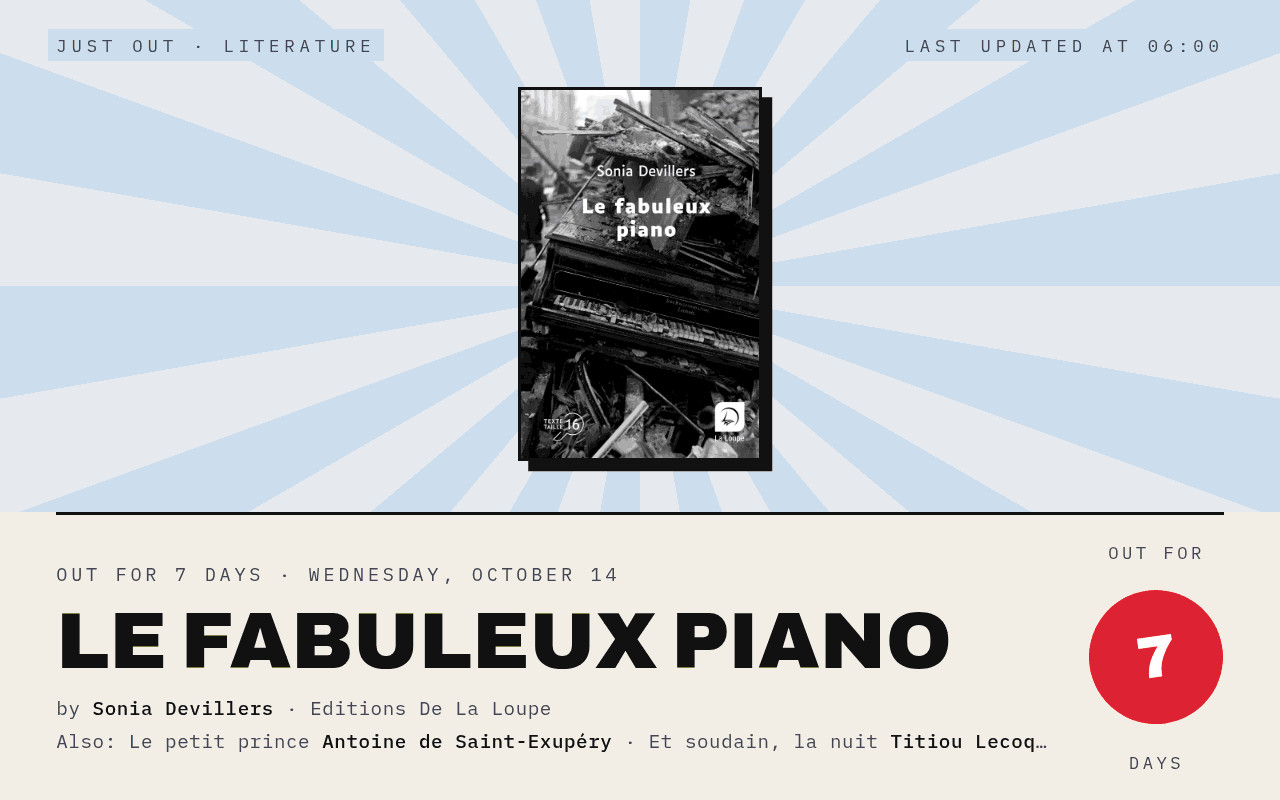
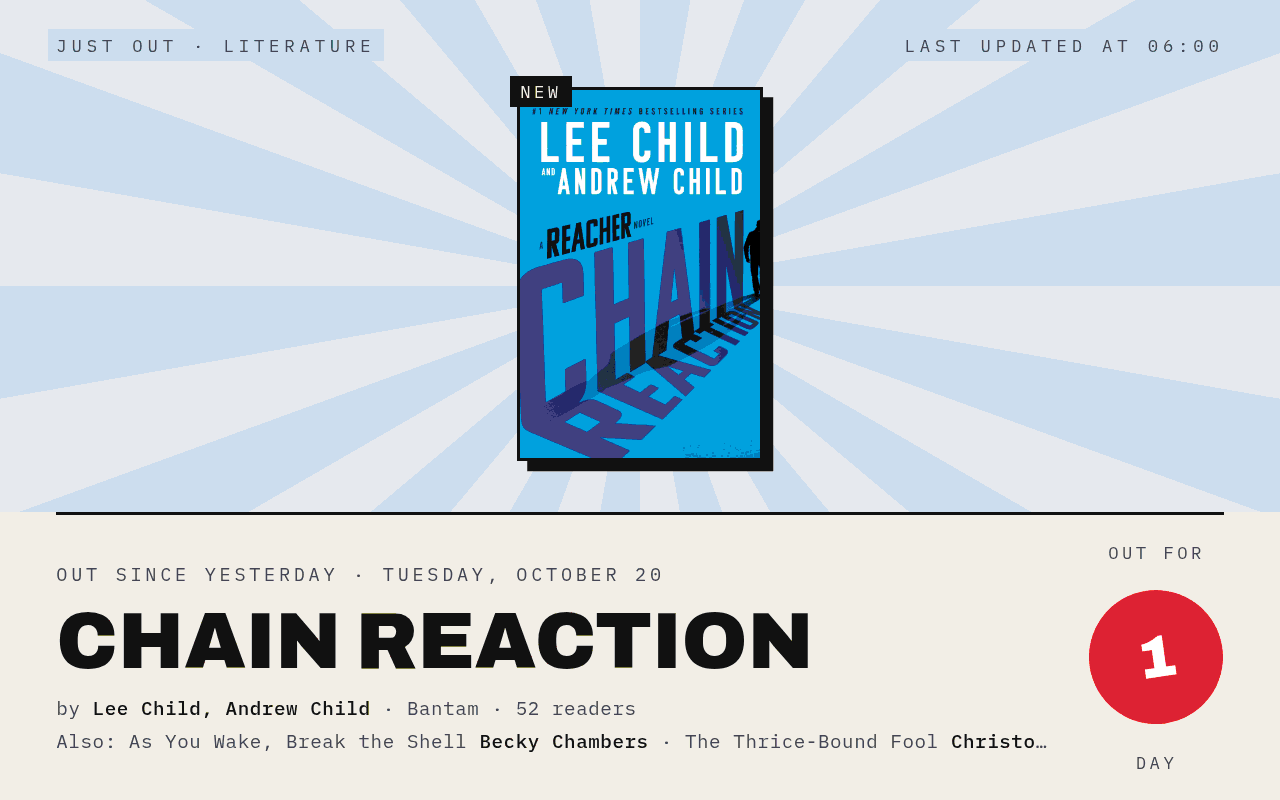
En anglais, les parutions viennent de Hardcover
La langue choisit aussi la source : Place des Libraires pour les livres
français, Hardcover (avec une clé d'API) pour les livres anglophones.
Le plugin passe en POST, accepté aussi par Place des Libraires.

diff --git a/recipe_test.php b/recipe_test.php
@@ -19,6 +19,8 @@ echo "url=", count($urls()), " urls for 6 genres\n";
 // à paraître d'ici six semaines, parus ces deux dernières semaines
 $both = json_decode(file_get_contents('/tmp/test_payload.json'), true);
 $feed = array_slice($both, 0, 2);
+// Réponse Hardcover (littérature, en anglais) figée le 21 octobre 2026 ; une seule URL, donc pas de clé IDX_
+$en = json_decode(file_get_contents('/tmp/test_payload_en.json'), true);
 echo 'payload bytes: ', strlen(json_encode($both)), ' / limit ', Plugin::maxDataPayloadBytesForWire() ?? 'none', "\n";
 // le livre à paraître le plus attendu, sans couverture
 $noimg = $feed; preg_match('#/livre/(\d{13})-#', $feed['IDX_0']['data'], $m);
@@ -30,13 +32,13 @@ $slot = fn($k) => (int) collect(range(0, 23))->first(fn($h) => intdiv(Carbon::cr
 $cases = [
   // nom, taille, modèle, style, langue, affiche, données, heure (UTC), genre
   ['fr_color_hot', 'full', 55, 'color', 'fr', 'hot', $feed, 10],
-  ['en_eink_hot', 'full', 1, 'eink', 'en', 'hot', $feed, 10],
+  ['en_eink_hot', 'full', 1, 'eink', 'en', 'hot', $en, 10],
   ['fr_color_now', 'full', 55, 'color', 'fr', 'now', $feed, 10],
   ['fr_eink_now', 'full', 1, 'eink', 'fr', 'now', $feed, 10],
   ['fr_color_upcoming', 'full', 55, 'color', 'fr', 'upcoming', $feed, 10],
   ['fr_x_upcoming', 'full', 14, 'eink', 'fr', 'upcoming', $feed, 10],
   ['fr_color_rotate_hot2', 'full', 55, 'color', 'fr', 'rotate', $feed, $slot(3)],
-  ['en_color_rotate_now3', 'full', 55, 'color', 'en', 'rotate', $feed, $slot(7)],
+  ['en_color_rotate_now3', 'full', 55, 'color', 'en', 'rotate', $en, $slot(7)],
   ['fr_color_multi_hot2', 'full', 55, 'color', 'fr', 'rotate', $both, $slot(3), ['1000000', '90000000']],
   ['fr_eink_multi_upcoming', 'full', 1, 'eink', 'fr', 'upcoming', $both, 10, ['1000000', '90000000']],
   ['fr_q_multi3', 'quadrant', 1, 'eink', 'fr', 'now', $both + ['IDX_4' => ['error' => 'Failed to fetch data']], 10, ['1000000', '90000000', '91000000']],
@@ -44,16 +46,19 @@ $cases = [
   ['fr_hh', 'half_horizontal', 1, 'eink', 'fr', 'hot', $feed, 10],
   ['fr_hv', 'half_vertical', 1, 'eink', 'fr', 'now', $feed, 10],
   ['fr_q', 'quadrant', 1, 'eink', 'fr', 'upcoming', $feed, 10],
-  ['en_q', 'quadrant', 1, 'eink', 'en', 'hot', $feed, 10],
-  ['en_hh', 'half_horizontal', 1, 'eink', 'en', 'upcoming', $feed, 10],
+  ['en_q', 'quadrant', 1, 'eink', 'en', 'hot', $en, 10],
+  ['en_hh', 'half_horizontal', 1, 'eink', 'en', 'upcoming', $en, 10],
   ['fr_error', 'full', 1, 'eink', 'fr', 'rotate', $down, 10],
   ['fr_empty', 'full', 55, 'color', 'fr', 'rotate', $empty, 10, ['90000000']],
+  ['en_color_upcoming', 'full', 55, 'color', 'en', 'upcoming', $en, 10],
+  ['en_error', 'full', 1, 'eink', 'en', 'rotate', ['error' => 'Failed to fetch data'], 10],
+  ['en_nokey', 'full', 1, 'eink', 'en', 'rotate', ['error' => 'Failed to fetch data'], 10, null, ''],
 ];
 @mkdir('/tmp/bpr'); array_map('unlink', glob('/tmp/bpr/*.png'));
 foreach ($cases as $c) {
   [$name, $size, $mid, $style, $lang, $feat, $payload, $h] = $c;
   Carbon::setTestNow(Carbon::create(2026, 10, 21, $h, 0, 0, 'UTC'));
-  $p->configuration = ['genre' => $c[8] ?? ['1000000'], 'pocket' => 'no', 'style' => $style, 'language' => $lang, 'featured' => $feat];
+  $p->configuration = ['genre' => $c[8] ?? ['1000000'], 'hardcover_token' => $c[9] ?? 'test', 'pocket' => 'no', 'style' => $style, 'language' => $lang, 'featured' => $feat];
   $p->data_payload = $payload; $p->saveQuietly();
   $model = DeviceModel::find($mid);
   $dev = new Device(['name' => 'test']); $dev->setRelation('deviceModel', $model);
@@ -65,7 +70,13 @@ foreach ($cases as $c) {
   echo "$name ok\n";
 }
 Carbon::setTestNow();
-// listes réelles, sur demande
+// listes réelles, sur demande ; Hardcover avec le jeton passé dans HC_TOKEN
+if (getenv('HC_TOKEN')) {
+  $p->configuration = ['genre' => ['90000000', '91000000'], 'hardcover_token' => getenv('HC_TOKEN'), 'pocket' => 'no', 'language' => 'en', 'featured' => 'rotate', 'style' => 'color'];
+  $p->saveQuietly(); $p->updateDataPayload();
+  $live = $p->fresh()->data_payload;
+  echo 'live payload en: ', isset($live['data']) ? count($live['data']['coming']) . ' coming, ' . count($live['data']['recent']) . ' recent, first ' . ($live['data']['coming'][0]['title'] ?? '') : json_encode($live), "\n";
+}
 if (getenv('LIVE')) {
   // quatre rayons : la plus grosse charge possible, qui doit rester sous la limite de LaraPaper
   $p->configuration = ['genre' => ['1000000', '90000000', '91000000', '3000000-3040000'], 'pocket' => 'no', 'language' => 'fr', 'featured' => 'rotate', 'style' => 'color'];

diff --git a/update.php b/update.php
@@ -4,7 +4,7 @@ use App\Models\Plugin;
 $src = Plugin::where('name', 'BookPoster (test)')->firstOrFail();
 $dst = Plugin::where('name', 'BookPoster')->firstOrFail();
 $dst->fill($src->only(['render_markup', 'render_markup_shared', 'render_markup_half_horizontal', 'render_markup_half_vertical',
-  'render_markup_quadrant', 'polling_url', 'polling_verb', 'polling_header', 'configuration_template', 'no_bleed', 'markup_language']));
+  'render_markup_quadrant', 'polling_url', 'polling_verb', 'polling_header', 'polling_body', 'configuration_template', 'no_bleed', 'markup_language']));
 $dst->save();
 $src->delete();
 echo "updated {$dst->id}\n";

diff --git a/README.md b/README.md
@@ -10,9 +10,12 @@
 
 *Ce qui paraît en librairie, façon affiche.*
 
-Un plugin TRMNL qui met un livre à l'affiche : les livres les plus attendus, ceux qui viennent de paraître ou les prochaines parutions en France, avec sa couverture, son auteur, son éditeur et un compte à rebours avant sa sortie. Il fait partie de la suite Poster avec [FlightPoster](https://github.com/BartoX360/FlightPoster), [WeatherPoster](https://github.com/BartoX360/WeatherPoster), [GamePoster](https://github.com/BartoX360/GamePoster), [MoviePoster](https://github.com/BartoX360/MoviePoster) et [ShowPoster](https://github.com/BartoX360/ShowPoster), dont il reprend le style.
+Un plugin TRMNL qui met un livre à l'affiche : les livres les plus attendus, ceux qui viennent de paraître ou les prochaines parutions, avec sa couverture, son auteur, son éditeur et un compte à rebours avant sa sortie. Il fait partie de la suite Poster avec [FlightPoster](https://github.com/BartoX360/FlightPoster), [WeatherPoster](https://github.com/BartoX360/WeatherPoster), [GamePoster](https://github.com/BartoX360/GamePoster), [MoviePoster](https://github.com/BartoX360/MoviePoster) et [ShowPoster](https://github.com/BartoX360/ShowPoster), dont il reprend le style.
 
-Aucun serveur ni clé à installer : les listes et les couvertures viennent de [Place des Libraires](https://www.placedeslibraires.fr), le site des librairies indépendantes.
+Les sorties ne sont pas les mêmes des deux côtés de la Manche : la langue choisit aussi la source.
+
+- **En français** : les parutions françaises de [Place des Libraires](https://www.placedeslibraires.fr), le site des librairies indépendantes. Aucune clé à fournir.
+- **En anglais** : les parutions anglophones de [Hardcover](https://hardcover.app), avec votre propre clé d'API gratuite, et le nombre de lecteurs qui suivent chaque livre.
 
 ### Fonctionnalités
 
@@ -23,7 +26,7 @@ Aucun serveur ni clé à installer : les listes et les couvertures viennent de [
 - **Tampon** : le nombre de jours avant la parution, ou depuis la parution
 - **Vos rayons** : jusqu'à quatre parmi littérature, romans, polar, fantasy & SF, romance, BD, mangas, jeunesse, sciences humaines, arts, vie pratique, ou tous les livres ; leurs listes sont mêlées rang par rang
 - **Nouveautés seulement** : les rééditions en poche sont écartées, sauf si vous les voulez (toujours gardées pour les mangas)
-- **Français ou anglais**
+- **Français ou anglais**, chacun avec ses propres parutions
 - Un livre sans couverture est illustré par un livre ouvert
 
 ### Captures
@@ -41,10 +44,12 @@ Aucun serveur ni clé à installer : les listes et les couvertures viennent de [
 
 ### Installation
 
+Pour les parutions anglophones, il faut d'abord une clé d'API Hardcover : sur [hardcover.app](https://hardcover.app), *Settings → Hardcover API → New API Key*.
+
 **LaraPaper / BYOS** : *Plugins → Import recipe*, choisissez `recipe/bookposter.zip` (créé par `recipe_render.sh`, ou zippez le contenu de `recipe/src/`), puis choisissez vos réglages.
 
 **TRMNL (usetrmnl.com)** : créez un *Private Plugin* avec la stratégie *Polling*, puis copiez :
-- `polling_url` et `polling_headers` de `recipe/src/settings.yml` dans *Polling URL* et *Polling headers* ;
+- `polling_url`, `polling_headers` et `polling_body` de `recipe/src/settings.yml` dans *Polling URL*, *Polling headers* et *Polling body* (verbe *POST*) ;
 - les `custom_fields` de `recipe/src/settings.yml` dans *Custom fields* (YAML) ;
 - `recipe/src/shared.liquid` dans *Shared markup*, et chaque `recipe/src/<format>.liquid` dans l'onglet correspondant.
 
@@ -54,15 +59,18 @@ Le dossier `recipe/src/` suit l'organisation de [trmnlp](https://github.com/uset
 
 | Champ | Rôle |
 |---|---|
-| Genres | Les rayons des livres à l'affiche, quatre au plus (Littérature si vide) |
-| Poches | Sans (par défaut) ou avec les rééditions en poche |
+| Clé d'API Hardcover | Seulement en anglais |
+| Genres | Les rayons des livres à l'affiche, quatre au plus (Littérature si vide) ; en anglais, ils sont traduits en genres Hardcover |
+| Poches | En français : sans (par défaut) ou avec les rééditions en poche |
 | Affiche | *Rotation* (chaque heure), ou toujours le livre le plus attendu, le plus demandé des juste parus ou la prochaine parution |
-| Langue | Français ou anglais |
+| Langue | Français (Place des Libraires) ou anglais (Hardcover) |
 | Style | E-ink (noir et blanc) ou Couleur |
 
 ### Fonctionnement
 
-Place des Libraires ne cherche que dans un rayon à la fois : l'URL de polling charge deux pages de recherche par rayon (à paraître d'ici six semaines, parus ces deux dernières semaines), triées par pertinence (les livres les plus demandés d'abord). Chaque page pèse environ 450 Ko, d'où la limite de quatre rayons, qui garde la charge sous les 5 Mo acceptés par LaraPaper. Le gabarit n'en garde que l'en-tête des seize premiers livres (titre, auteurs, éditeur, date, EAN) ; la couverture est chargée au moment du rendu d'après l'EAN.
+**En anglais**, le polling fait une requête GraphQL à Hardcover avec deux listes de vingt livres au plus dans les genres correspondants : à paraître d'ici six semaines et parus ces deux dernières semaines, triés par nombre de lecteurs qui les ont ajoutés. Soit deux requêtes par heure, pour 5 000 par jour en offre gratuite.
+
+**En français**, Place des Libraires ne cherche que dans un rayon à la fois : l'URL de polling charge deux pages de recherche par rayon (à paraître d'ici six semaines, parus ces deux dernières semaines), triées par pertinence (les livres les plus demandés d'abord). Chaque page pèse environ 450 Ko, d'où la limite de quatre rayons, qui garde la charge sous les 5 Mo acceptés par LaraPaper. Le gabarit n'en garde que l'en-tête des seize premiers livres (titre, auteurs, éditeur, date, EAN) ; la couverture est chargée au moment du rendu d'après l'EAN.
 
 - *Les plus attendus* : les plus demandés parmi ceux qui paraissent d'ici six semaines
 - *Juste parus* : parus ces deux dernières semaines, les plus demandés d'abord
@@ -72,9 +80,11 @@ Place des Libraires ne cherche que dans un rayon à la fois : l'URL de polling c
 
 | Fichier | Rôle |
 |---|---|
-| `recipe_render.sh <dossier>` | Zippe la recette, l'importe dans LaraPaper comme « BookPoster (test) », rend chaque cas de test et copie les PNG dans `<dossier>` ; avec `LIVE=1`, vérifie aussi les listes réelles et la taille de la charge pour quatre rayons |
-| `recipe_test.php` | Les cas de test (rubrique, rotation, plusieurs rayons, format, appareil, langue, couverture manquante, erreurs, rayon vide), exécutés dans LaraPaper |
+| `recipe_render.sh <dossier>` | Zippe la recette, l'importe dans LaraPaper comme « BookPoster (test) », rend chaque cas de test et copie les PNG dans `<dossier>` ; avec `LIVE=1`, vérifie aussi les listes réelles et la taille de la charge pour quatre rayons, ainsi que Hardcover si `.hardcover_token` existe |
+| `recipe_test.php` | Les cas de test (rubrique, rotation, plusieurs rayons, les deux sources, format, appareil, langue, couverture manquante, erreurs, rayon vide), exécutés dans LaraPaper |
 | `test_payload.json` | Les listes de littérature et de polar figées le 21 octobre 2026, utilisées par les cas de test |
+| `test_payload_en.json` | La réponse Hardcover (littérature) figée le 21 octobre 2026 |
+| `.hardcover_token` | Votre jeton Hardcover pour `LIVE=1`, ignoré par git |
 | `update.php` | Copie le code de « BookPoster (test) » dans le plugin installé, sans toucher à ses réglages |
 | `install.php` | Première installation : importe la recette comme « BookPoster » |
 
@@ -92,9 +102,12 @@ Place des Libraires ne cherche que dans un rayon à la fois : l'URL de polling c
 
 *What's coming out in bookstores, drawn as a poster.*
 
-A TRMNL plugin that puts one book on a poster: the most anticipated books, the ones just out or the next releases in France, with its cover, author, publisher and a countdown to its release. It is part of the Poster suite with [FlightPoster](https://github.com/BartoX360/FlightPoster), [WeatherPoster](https://github.com/BartoX360/WeatherPoster), [GamePoster](https://github.com/BartoX360/GamePoster), [MoviePoster](https://github.com/BartoX360/MoviePoster) and [ShowPoster](https://github.com/BartoX360/ShowPoster), and shares their look.
+A TRMNL plugin that puts one book on a poster: the most anticipated books, the ones just out or the next releases, with its cover, author, publisher and a countdown to its release. It is part of the Poster suite with [FlightPoster](https://github.com/BartoX360/FlightPoster), [WeatherPoster](https://github.com/BartoX360/WeatherPoster), [GamePoster](https://github.com/BartoX360/GamePoster), [MoviePoster](https://github.com/BartoX360/MoviePoster) and [ShowPoster](https://github.com/BartoX360/ShowPoster), and shares their look.
 
-No server and no key: the lists and covers come from [Place des Libraires](https://www.placedeslibraires.fr), the French independent bookstores' website.
+Releases differ between English and French books, so the language also picks the source.
+
+- **In English**: English-language releases from [Hardcover](https://hardcover.app), with your own free API key, and how many readers follow each book.
+- **In French**: French releases from [Place des Libraires](https://www.placedeslibraires.fr), the French independent bookstores' website. No key needed.
 
 ### Features
 
@@ -104,38 +117,45 @@ No server and no key: the lists and covers come from [Place des Libraires](https
 - **Rotation**: every hour the poster moves to another section and another of its top three books, or stays on the section you pick
 - **Stamp**: the number of days before or since the release
 - **Your shelves**: up to four among literature, novels, crime, fantasy & SF, romance, comics, manga, kids, humanities, arts, lifestyle, or all books; their lists are interleaved rank by rank
-- **New books only**: paperback reissues are left out unless you want them (always kept for manga)
-- **French or English**
+- **New books only** (French): paperback reissues are left out unless you want them (always kept for manga)
+- **English or French**, each with its own releases
 - Books without a cover get an open book illustration
 
 ### Screenshots
 
 | | |
 |---|---|
+| ![E-ink, most anticipated](recipe/screenshots/en-eink-hot.png) | ![Color, coming soon](recipe/screenshots/en-color-upcoming.png) |
+| E-ink · most anticipated | Color · coming soon |
 | ![Color, just out](recipe/screenshots/en-color-rotate-now3.png) | ![Quadrant](recipe/screenshots/en-q.png) |
 | Color · just out | Quadrant |
 
 ### Installation
 
+For English releases, first get a Hardcover API key: on [hardcover.app](https://hardcover.app), *Settings → Hardcover API → New API Key*.
+
 **LaraPaper / BYOS**: *Plugins → Import recipe*, pick `recipe/bookposter.zip` (built by `recipe_render.sh`, or zip the contents of `recipe/src/`), then pick your settings.
 
-**TRMNL (usetrmnl.com)**: create a *Private Plugin* with the *Polling* strategy, then copy `polling_url` and `polling_headers`, the `custom_fields`, `shared.liquid` and each layout from `recipe/src/`. The plugin is built and tested on LaraPaper; HTML responses of up to 4 MB are not checked on usetrmnl.com.
+**TRMNL (usetrmnl.com)**: create a *Private Plugin* with the *Polling* strategy, then copy `polling_url`, `polling_headers` and `polling_body` (verb *POST*), the `custom_fields`, `shared.liquid` and each layout from `recipe/src/`. The plugin is built and tested on LaraPaper; HTML responses of up to 4 MB are not checked on usetrmnl.com.
 
 ### Settings
 
 | Field | Purpose |
 |---|---|
-| Genres | The shelves the books come from, four at most (Literature if blank) |
-| Paperbacks | Without (default) or with paperback reissues |
+| Hardcover API key | Needed in English only |
+| Genres | The shelves the books come from, four at most (Literature if blank); in English they are matched to Hardcover genres |
+| Paperbacks | French only: without (default) or with paperback reissues |
 | Poster | *Rotate* (every hour), or always the most anticipated book, the most wanted just-out book or the next release |
-| Language | French or English |
+| Language | English (Hardcover) or French (Place des Libraires) |
 | Style | E-ink (black & white) or Color |
 
 ### How it works
 
-Place des Libraires searches one shelf at a time: the polling URL loads two search pages per shelf (coming within six weeks, out in the last two weeks), sorted by relevance (the most wanted books first). Each page weighs about 450 KB, hence the four-shelf limit that keeps the payload under LaraPaper's 5 MB. The template keeps only the header of the first sixteen books (title, authors, publisher, date, EAN); the cover is loaded at render time from the EAN.
+**In English**, the polling makes one GraphQL request to Hardcover with two lists of up to twenty books in the matching genres: coming within six weeks and out in the last two weeks, sorted by the number of readers who shelved them. That's two requests an hour against the free plan's 5,000 a day.
 
-- *Most anticipated*: the most wanted books coming out within six weeks
+**In French**, Place des Libraires searches one shelf at a time: the polling URL loads two search pages per shelf (coming within six weeks, out in the last two weeks), sorted by relevance (the most wanted books first). Each page weighs about 450 KB, hence the four-shelf limit that keeps the payload under LaraPaper's 5 MB. The template keeps only the header of the first sixteen books (title, authors, publisher, date, EAN); the cover is loaded at render time from the EAN.
+
+- *Most anticipated*: the most followed (English) or most wanted (French) books coming out within six weeks
 - *Just out*: released in the last two weeks, most wanted first
 - *Coming soon*: the same books, from the next release to the furthest
 
